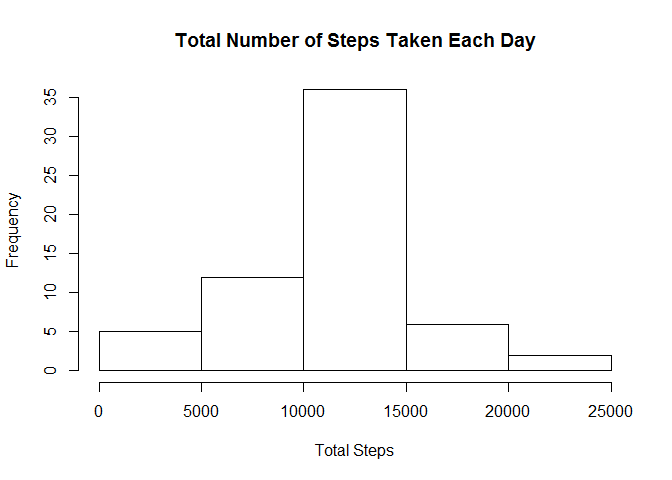
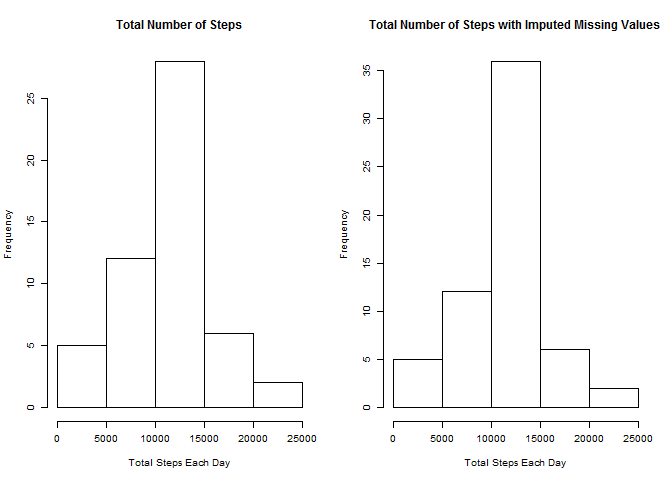
Peer Assignment 1 Update 2

diff --git a/PA1_template.html b/PA1_template.html
@@ -98,13 +98,16 @@ m2 &lt;- median(tsteps$V1, na.rm = TRUE)</code></pre>
 with(msteps, plot(interval, V1, 
                   type=&quot;l&quot;, 
                   main=&quot;Average Daily Activity Pattern&quot;,
-                  ylab=&quot;Average Number of Steps Taken&quot;))</code></pre>
[1 lines of base64/hex data omitted]
+                  ylab=&quot;Average Number of Steps Taken&quot;,
+                  xlab=&quot;5-Minute Interval&quot;))</code></pre>
[1 lines of base64/hex data omitted]
 <ol start="2" style="list-style-type: decimal">
-<li>Calculate and report the mean and median total number of steps taken per day.</li>
+<li>Which 5-minute interval, on average across all the days in the dataset, contains the maximum number of steps?.</li>
 </ol>
-<pre class="r"><code>m1 &lt;- msteps[max(msteps$V1)]$interval</code></pre>
-<p>The 5-minute interval with the maiumun number of steps is 1705.</p>
+<pre class="r"><code>max_steps = max(msteps$V1)
+m1 &lt;- msteps[V1 == max_steps]$interval
+m1time &lt;- substr(as.POSIXct(sprintf(&quot;%04.0f&quot;, m1), format='%H%M'), 12, 16)</code></pre>
+<p>The 5-minute interval with the maximun number of steps is 835 or 08:35 (with a maximum steps of 206.1698).</p>
 </div>
 <div id="imputing-missing-values" class="section level2">
 <h2>Imputing missing values</h2>
@@ -116,7 +119,7 @@ with(msteps, plot(interval, V1,
 <ol start="2" style="list-style-type: decimal">
 <li>Devise a strategy for filling in all of the missing values in the dataset. The strategy does not need to be sophisticated. For example, you could use the mean/median for that day, or the mean for that 5-minute interval, etc.</li>
 </ol>
-<p>The strategy for filling in all missing values will be to use themean for that 5-minute interval that is missing a value.</p>
+<p>The strategy being used for filling in all missing values will be to use the mean for that 5-minute interval that is missing a value.</p>
 <ol start="3" style="list-style-type: decimal">
 <li>Create a new dataset that is equal to the original dataset but with the missing data filled in.</li>
 </ol>
@@ -136,14 +139,21 @@ summary(cactivity)</code></pre>
 <ol start="4" style="list-style-type: decimal">
 <li>Make a histogram of the total number of steps taken each day and Calculate and report the mean and median total number of steps taken per day. Do these values differ from the estimates from the first part of the assignment? What is the impact of imputing missing data on the estimates of the total daily number of steps?</li>
 </ol>
-<pre class="r"><code>ctsteps &lt;- cactivity[, sum(steps), by=date]
+<pre class="r"><code>tsteps &lt;- activity[, sum(steps), by=date]
+ctsteps &lt;- cactivity[, sum(steps), by=date]
+par(mfrow = c(1, 2), cex = 0.6)
+hist(tsteps$V1, 
+    main = &quot;Total Number of Steps&quot;, 
+    xlab = &quot;Total Steps Each Day&quot;)
 hist(ctsteps$V1, 
-    main = &quot;Total Number of Steps Taken Each Day&quot;, 
-    xlab = &quot;Total Steps&quot;)</code></pre>
[1 lines of base64/hex data omitted]
-<pre class="r"><code>cm1 &lt;- format(mean(ctsteps$V1, na.rm = TRUE), nsmall=2)
+    main = &quot;Total Number of Steps with Imputed Missing Values&quot;, 
+    xlab = &quot;Total Steps Each Day&quot;)</code></pre>
[1 lines of base64/hex data omitted]
+<pre class="r"><code>m1 &lt;- format(mean(tsteps$V1, na.rm = TRUE), nsmall=2)
+m2 &lt;- format(median(tsteps$V1, na.rm = TRUE), nsmall=2)
+cm1 &lt;- format(mean(ctsteps$V1, na.rm = TRUE), nsmall=2)
 cm2 &lt;- format(median(ctsteps$V1, na.rm = TRUE), nsmall=2)</code></pre>
-<p>The mean is 10766.19 and the median is 10766.19. The values are similar to the values from the first part of the assignment. The impact of imputing missing data on the estimates of the total daily number of steps appears to be minimal.</p>
+<p>The mean with imputed missing values is 10766.19 compared to 10766.19. The median with missing values is 10766.19 compared with 10765. The values are similar. The impact of imputing missing data on the estimates of the total daily number of steps appears to be minimal.</p>
 </div>
 <div id="are-there-differences-in-activity-patterns-between-weekdays-and-weekends" class="section level2">
 <h2>Are there differences in activity patterns between weekdays and weekends?</h2>
@@ -157,12 +167,22 @@ cm2 &lt;- format(median(ctsteps$V1, na.rm = TRUE), nsmall=2)</code></pre>
 <pre class="r"><code>library(lattice)
 cactivity$wday &lt;- ifelse(cactivity$weekend == FALSE, &quot;Weekday&quot;, &quot;Weekend&quot;)
 wmsteps &lt;- cactivity[,list(avg = mean(steps)),by = list(interval,wday)]
+
+we_m &lt;- mean(wmsteps[wday == &quot;Weekend&quot;]$avg, na.rm = TRUE)
+we_i &lt;- wmsteps[avg == max(wmsteps[wday == &quot;Weekend&quot;]$avg)]$interval
+we_time &lt;- substr(as.POSIXct(sprintf(&quot;%04.0f&quot;, we_i), format='%H%M'), 12, 16)
+
+wd_m &lt;- mean(wmsteps[wday == &quot;Weekday&quot;]$avg, na.rm = TRUE)
+wd_i &lt;- wmsteps[avg == max(wmsteps[wday == &quot;Weekday&quot;]$avg)]$interval
+wd_time &lt;- substr(as.POSIXct(sprintf(&quot;%04.0f&quot;, wd_i), format='%H%M'), 12, 16)
+
 xyplot( avg ~ interval | wday, data = wmsteps, 
         layout = c(1,2), type=&quot;l&quot;, 
         ylab=&quot;Number of steps&quot;, 
         xlab=&quot;Interval&quot;, 
         main=&quot;Average Number of Steps Taken&quot;)</code></pre>
[1 lines of base64/hex data omitted]
+<p>There are differences in activity between weekend and weekday. The charts show that there is more activity throughout the day during the weekend and the average number of steps is greater during the weekend (42.3664) than the weekday (35.6106). In addition, the maximum number of steps taken is later in the day for the weekend (915 or 09:15) versus the weekday (835 or 09:15).</p>
 </div>
 
 

diff --git a/PA1_template.md b/PA1_template.md
@@ -52,17 +52,20 @@ msteps <- activity[, mean(steps, na.rm=TRUE), by=interval]
 with(msteps, plot(interval, V1, 
                   type="l", 
                   main="Average Daily Activity Pattern",
-                  ylab="Average Number of Steps Taken"))
+                  ylab="Average Number of Steps Taken",
+                  xlab="5-Minute Interval"))
 ```
 
 ![plot of chunk unnamed-chunk-1](./PA1_template_files/figure-html/unnamed-chunk-1.png) 
 
-2. Calculate and report the mean and median total number of steps taken per day.
+2. Which 5-minute interval, on average across all the days in the dataset, contains the maximum number of steps?.
 
 ```r
-m1 <- msteps[max(msteps$V1)]$interval
+max_steps = max(msteps$V1)
+m1 <- msteps[V1 == max_steps]$interval
+m1time <- substr(as.POSIXct(sprintf("%04.0f", m1), format='%H%M'), 12, 16)
 ```
-The 5-minute interval with the maiumun number of steps is 1705.
+The 5-minute interval with the maximun number of steps is 835 or 08:35 (with a maximum steps of 206.1698).
 
 
 ## Imputing missing values
@@ -75,7 +78,7 @@ The total number of missing values in the dataset is 2303
 
 2. Devise a strategy for filling in all of the missing values in the dataset. The strategy does not need to be sophisticated. For example, you could use the mean/median for that day, or the mean for that 5-minute interval, etc.
 
-The strategy for filling in all missing values will be to use themean for that 5-minute interval that is missing a value.
+The strategy being used for filling in all missing values will be to use the mean for that 5-minute interval that is missing a value.
 
 3. Create a new dataset that is equal to the original dataset but with the missing data filled in.
 
@@ -102,19 +105,26 @@ summary(cactivity)
 4. Make a histogram of the total number of steps taken each day and Calculate and report the mean and median total number of steps taken per day. Do these values differ from the estimates from the first part of the assignment? What is the impact of imputing missing data on the estimates of the total daily number of steps?
 
 ```r
+tsteps <- activity[, sum(steps), by=date]
 ctsteps <- cactivity[, sum(steps), by=date]
+par(mfrow = c(1, 2), cex = 0.6)
+hist(tsteps$V1, 
+    main = "Total Number of Steps", 
+    xlab = "Total Steps Each Day")
 hist(ctsteps$V1, 
-    main = "Total Number of Steps Taken Each Day", 
-    xlab = "Total Steps")
+    main = "Total Number of Steps with Imputed Missing Values", 
+    xlab = "Total Steps Each Day")
 ```
 
 ![plot of chunk unnamed-chunk-5](./PA1_template_files/figure-html/unnamed-chunk-5.png) 
 
 ```r
+m1 <- format(mean(tsteps$V1, na.rm = TRUE), nsmall=2)
+m2 <- format(median(tsteps$V1, na.rm = TRUE), nsmall=2)
 cm1 <- format(mean(ctsteps$V1, na.rm = TRUE), nsmall=2)
 cm2 <- format(median(ctsteps$V1, na.rm = TRUE), nsmall=2)
 ```
-The mean is 10766.19 and the median is 10766.19.  The values are similar to the values from the first part of the assignment.  The impact of imputing missing data on the estimates of the total daily number of steps appears to be minimal.
+The mean with imputed missing values is 10766.19 compared to 10766.19.  The median with missing values is 10766.19 compared with 10765.  The values are similar.  The impact of imputing missing data on the estimates of the total daily number of steps appears to be minimal.
 
 
 ## Are there differences in activity patterns between weekdays and weekends?
@@ -130,6 +140,15 @@ cactivity$weekend <- weekdays(as.Date(cactivity$date,"%Y-%m-%d")) %in% c('Sunday
 library(lattice)
 cactivity$wday <- ifelse(cactivity$weekend == FALSE, "Weekday", "Weekend")
 wmsteps <- cactivity[,list(avg = mean(steps)),by = list(interval,wday)]
+
+we_m <- mean(wmsteps[wday == "Weekend"]$avg, na.rm = TRUE)
+we_i <- wmsteps[avg == max(wmsteps[wday == "Weekend"]$avg)]$interval
+we_time <- substr(as.POSIXct(sprintf("%04.0f", we_i), format='%H%M'), 12, 16)
+
+wd_m <- mean(wmsteps[wday == "Weekday"]$avg, na.rm = TRUE)
+wd_i <- wmsteps[avg == max(wmsteps[wday == "Weekday"]$avg)]$interval
+wd_time <- substr(as.POSIXct(sprintf("%04.0f", wd_i), format='%H%M'), 12, 16)
+
 xyplot( avg ~ interval | wday, data = wmsteps, 
         layout = c(1,2), type="l", 
         ylab="Number of steps", 
@@ -139,3 +158,4 @@ xyplot( avg ~ interval | wday, data = wmsteps,
 
 ![plot of chunk unnamed-chunk-7](./PA1_template_files/figure-html/unnamed-chunk-7.png) 
 
+There are differences in activity between weekend and weekday.  The charts show that there is more activity throughout the day during the weekend and the average number of steps is greater during the weekend (42.3664) than the weekday (35.6106).  In addition, the maximum number of steps taken is later in the day for the weekend (915 or 09:15) versus the weekday (835 or 09:15).
